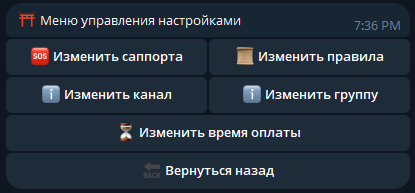
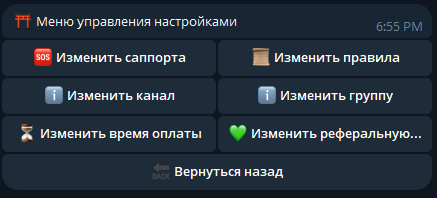
UPDATE: added ability to change the parameters of the referral system

diff --git a/bot/handlers/admin/settings_states.py b/bot/handlers/admin/settings_states.py
@@ -4,7 +4,7 @@ from aiogram.types import Message, CallbackQuery
 from bot.database.models import Permission
 from bot.keyboards import setting, back, reset_config
 from bot.database.methods import check_role, delete_config, check_channel, update_config, create_config, check_helper, \
-    check_rules, check_group, check_time
+    check_rules, check_group, check_time, check_referral
 from bot.misc import TgConfig
 from bot.logger_mesh import logger
 from bot.handlers.other import get_bot_user_ids
@@ -51,7 +51,7 @@ async def upd_channel_callback_handler(call: CallbackQuery):
     role = check_role(user_id)
     if role >= Permission.SETTINGS_MANAGE:
         await bot.edit_message_text(
-            'Введите ссылку на канал для добавления\nНапример <s>https://t.me/</s> <u>1a2b3c4d5e6f7g8h</u>\n'
+            'Введите ссылку на канал для добавления\nНапример https://t.me/1a2b3c4d5e6f7g8h\n'
             'Перед этим назначьте бота администратором канала, бот будет проверять, '
             'подписан ли пользователь на данный канал',
             chat_id=call.message.chat.id,
@@ -241,6 +241,55 @@ async def process_group_for_upd(message: Message):
     logger.info(f"Группа была обновлена пользователем {user_id} ({user_info.first_name})")
 
 
+async def upd_referral_callback_handler(call: CallbackQuery):
+    bot, user_id = await get_bot_user_ids(call)
+    TgConfig.STATE[f'{user_id}_message_id'] = call.message.message_id
+    TgConfig.STATE[user_id] = 'upd_referral'
+    referral_percent = check_referral()
+    if referral_percent:
+        keyboard = reset_config('referral_percent')
+    else:
+        keyboard = back("settings")
+    role = check_role(user_id)
+    if role >= Permission.SETTINGS_MANAGE:
+        await bot.edit_message_text(
+            'Введите процент, который получит пользователь от пополнения баланса реферала. На данный момент '
+            f'это <code>{5 if not referral_percent else referral_percent}</code>% от пополнения\n'
+            'Если хотите убрать реферальную систему, введите 0 ',
+            chat_id=call.message.chat.id,
+            message_id=call.message.message_id,
+            parse_mode='HTML',
+            reply_markup=keyboard)
+        return
+    await call.answer('Недостаточно прав')
+
+
+async def process_referral_for_upd(message: Message):
+    bot, user_id = await get_bot_user_ids(message)
+    TgConfig.STATE[user_id] = None
+    message_id = TgConfig.STATE.get(f'{user_id}_message_id')
+    await bot.delete_message(chat_id=message.chat.id,
+                             message_id=message.message_id)
+    if not message.text.isdigit():
+        await bot.edit_message_text(chat_id=message.chat.id,
+                                    message_id=message_id,
+                                    text="❌ Неверный процент. "
+                                         "процент должен быть числом",
+                                    reply_markup=back('settings'))
+        return
+    if check_referral():
+        update_config('referral_percent', message.text)
+    else:
+        create_config('referral_percent', message.text)
+    await bot.edit_message_text(chat_id=message.chat.id,
+                                message_id=message_id,
+                                text='✅ Реферальная система обновлена',
+                                reply_markup=back("settings"))
+    user_info = await bot.get_chat(user_id)
+    logger.info(f"Реферальная система была обновлена пользователем {user_id} ({user_info.first_name})")
+    return
+
+
 def register_settings(dp: Dispatcher) -> None:
     dp.register_callback_query_handler(settings_callback_handler,
                                        lambda c: c.data == 'settings')
@@ -254,6 +303,8 @@ def register_settings(dp: Dispatcher) -> None:
                                        lambda c: c.data == 'rules_data')
     dp.register_callback_query_handler(upd_group_callback_handler,
                                        lambda c: c.data == 'group_data')
+    dp.register_callback_query_handler(upd_referral_callback_handler,
+                                       lambda c: c.data == 'referral_data')
 
     dp.register_message_handler(process_channel_for_upd,
                                 lambda c: TgConfig.STATE.get(c.from_user.id) == 'upd_channel')
@@ -265,6 +316,8 @@ def register_settings(dp: Dispatcher) -> None:
                                 lambda c: TgConfig.STATE.get(c.from_user.id) == 'upd_rules')
     dp.register_message_handler(process_group_for_upd,
                                 lambda c: TgConfig.STATE.get(c.from_user.id) == 'upd_group')
+    dp.register_message_handler(process_referral_for_upd,
+                                lambda c: TgConfig.STATE.get(c.from_user.id) == 'upd_referral')
 
     dp.register_callback_query_handler(reset_config_callback_handler,
                                        lambda c: c.data.startswith('reset_'))

diff --git a/bot/handlers/user/main.py b/bot/handlers/user/main.py
@@ -11,7 +11,7 @@ from bot.database.methods import select_max_role_id, create_user, check_channel,
     select_item_values_amount, get_user_balance, get_item_value, buy_item, add_bought_item, buy_item_for_balance, \
     select_user_operations, select_user_items, check_user_referrals, check_rules, start_operation, \
     select_unfinished_operations, get_user_referral, finish_operation, update_balance, create_operation, \
-    bought_items_list, check_value, check_time
+    bought_items_list, check_value, check_time, check_referral
 from bot.handlers.other import get_bot_user_ids, check_sub_channel, get_bot_info
 from bot.keyboards import check_sub, main_menu, categories_list, goods_list, user_items_list, back, item_info, \
     profile, rules, payment_menu, close
@@ -34,18 +34,16 @@ async def start(message: Message):
     referral_id = message.text[7:] if message.text[7:] != str(user_id) else None
     user_role = owner if str(user_id) == EnvKeys.OWNER_ID else 1
     create_user(telegram_id=user_id, registration_date=formatted_time, referral_id=referral_id, role=user_role)
-    chat = check_channel()
+    chat = check_channel()[13:]
     role_data = check_role(user_id)
 
     try:
         if chat is not None:
-            parsed_url = urlparse(chat)
-            channel_username = parsed_url.path.lstrip('/')
-            chat_member = await bot.get_chat_member(chat_id='@' + channel_username, user_id=user_id)
+            chat_member = await bot.get_chat_member(chat_id=f'@{chat}', user_id=user_id)
             if not await check_sub_channel(chat_member):
                 await bot.send_message(user_id,
                                        'Для начала подпишитесь на новостной канал',
-                                       reply_markup=check_sub(channel_username))
+                                       reply_markup=check_sub(chat))
                 await bot.delete_message(chat_id=message.chat.id,
                                          message_id=message.message_id)
                 return
@@ -288,13 +286,14 @@ async def profile_callback_handler(call: CallbackQuery):
             overall_balance += i
 
     items = select_user_items(user_id)
+    referral = check_referral() if check_referral() else 5
     await bot.edit_message_text(text=f"👤 <b>Профиль</b> — {user.first_name}\n🆔"
                                      f" <b>ID</b> — <code>{user_id}</code>\n"
                                      f"💳 <b>Баланс</b> — <code>{balance}</code> ₽\n"
                                      f"💵 <b>Всего пополнено</b> — <code>{overall_balance}</code> ₽\n"
                                      f" 🎁 <b>Куплено товаров</b> — {items} шт",
                                 chat_id=call.message.chat.id,
-                                message_id=call.message.message_id, reply_markup=profile(items),
+                                message_id=call.message.message_id, reply_markup=profile(referral, items),
                                 parse_mode='HTML')
 
 
@@ -302,12 +301,13 @@ async def referral_callback_handler(call: CallbackQuery):
     bot, user_id = await get_bot_user_ids(call)
     TgConfig.STATE[user_id] = None
     referrals = check_user_referrals(user_id)
+    referral_percent = check_referral() if check_referral() else 5
     await bot.edit_message_text(f'💚 Реферальная система\n'
                                 f'🔗 Ссылка: https://t.me/{await get_bot_info(call)}?start={user_id}\n'
                                 f'Количество рефералов: {referrals}\n'
                                 f'📔 Реферальная система позволит Вам заработать деньги без всяких вложений. '
                                 f'Необходимо всего лишь распространять свою реферальную ссылку и Вы будете получать'
-                                f' пожизненно 5% от суммы пополнений Ваших рефералов на Ваш баланс бота.',
+                                f' {referral_percent}% от суммы пополнений Ваших рефералов на Ваш баланс бота.',
                                 chat_id=call.message.chat.id,
                                 message_id=call.message.message_id,
                                 reply_markup=back('profile'))
@@ -380,8 +380,9 @@ async def checking_payment(call: CallbackQuery):
             referral_id = get_user_referral(user_id)
             finish_operation(label)
 
-            if referral_id:
-                referral_operation = round(0.05 * operation_value)
+            if referral_id and check_referral() != 0:
+                referral_percent = check_referral() if check_referral() else 0.05
+                referral_operation = round(referral_percent * operation_value)
                 update_balance(referral_id, referral_operation)
                 await bot.send_message(referral_id,
                                        f'✅ Вы получили {referral_operation}₽ '

diff --git a/bot/keyboards/inline.py b/bot/keyboards/inline.py
@@ -84,13 +84,13 @@ def item_info(item_name: str, category_name: str) -> InlineKeyboardMarkup:
     return InlineKeyboardMarkup(inline_keyboard=inline_keyboard)
 
 
-def profile(user_items: int = 0) -> InlineKeyboardMarkup:
+def profile(referral_percent: int, user_items: int = 0) -> InlineKeyboardMarkup:
     inline_keyboard = [
         [InlineKeyboardButton('💸 Пополнить баланс', callback_data='replenish_balance')
-         ],
-        [InlineKeyboardButton('🎲 Реферальная система', callback_data='referral_system')
          ]
     ]
+    if referral_percent != 0:
+        inline_keyboard.append([InlineKeyboardButton('🎲 Реферальная система', callback_data='referral_system')])
     if user_items != 0:
         inline_keyboard.append([InlineKeyboardButton('🎁 Купленные товары', callback_data='bought_items')])
     inline_keyboard.append([InlineKeyboardButton('🔙 Вернуться в меню', callback_data='back_to_menu')])
@@ -237,7 +237,8 @@ def setting() -> InlineKeyboardMarkup:
          ],
         [InlineKeyboardButton('ℹ Изменить канал', callback_data='channel_data'),
          InlineKeyboardButton('ℹ Изменить группу', callback_data='group_data')],
-        [InlineKeyboardButton('⏳ Изменить время оплаты', callback_data='time_data')
+        [InlineKeyboardButton('⏳ Изменить время оплаты', callback_data='time_data'),
+         InlineKeyboardButton('💚 Изменить реферальную систему', callback_data='referral_data')
          ],
         [InlineKeyboardButton('🔙 Вернуться назад', callback_data='console')
          ]

diff --git a/bot/database/methods/read.py b/bot/database/methods/read.py
@@ -73,6 +73,13 @@ def check_rules() -> str | None:
         return None
 
 
+def check_referral() -> int | None:
+    try:
+        return Database().session.query(Configuration.value).filter(Configuration.key == 'referral_percent').scalar()
+    except exc.NoResultFound:
+        return None
+
+
 def get_all_users() -> list[tuple[int]]:
     return Database().session.query(User.telegram_id).all()
 
